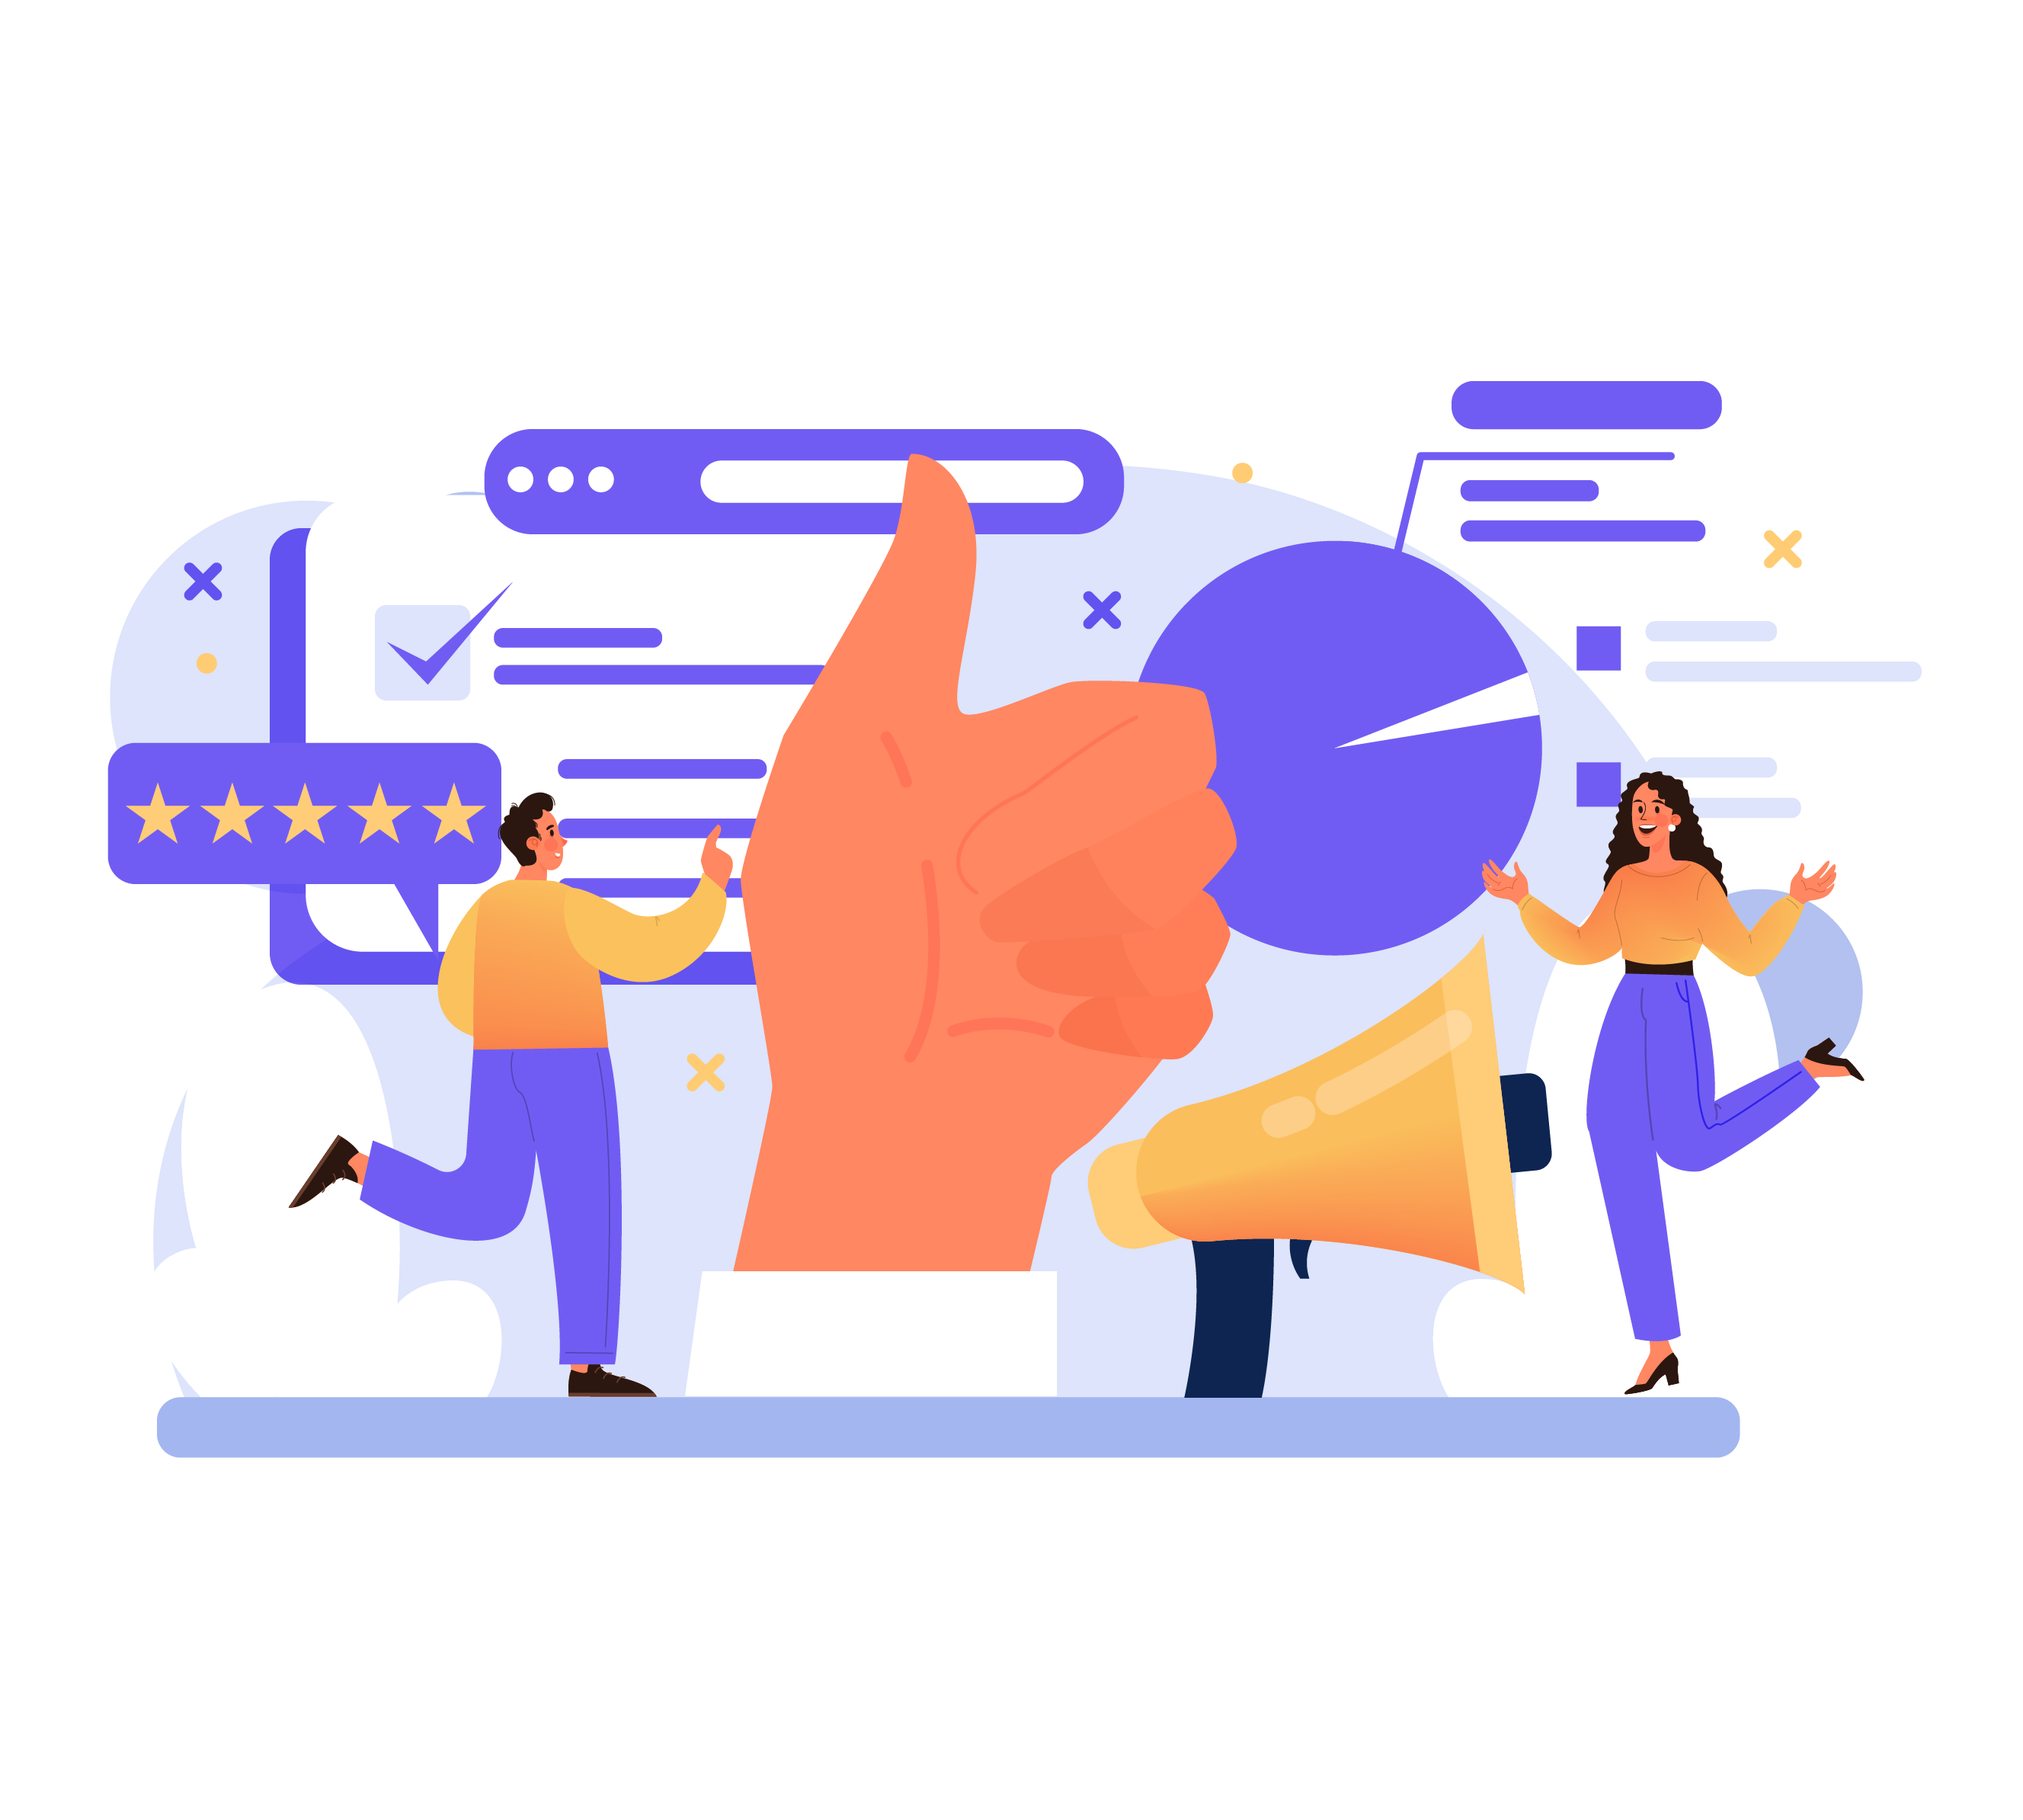
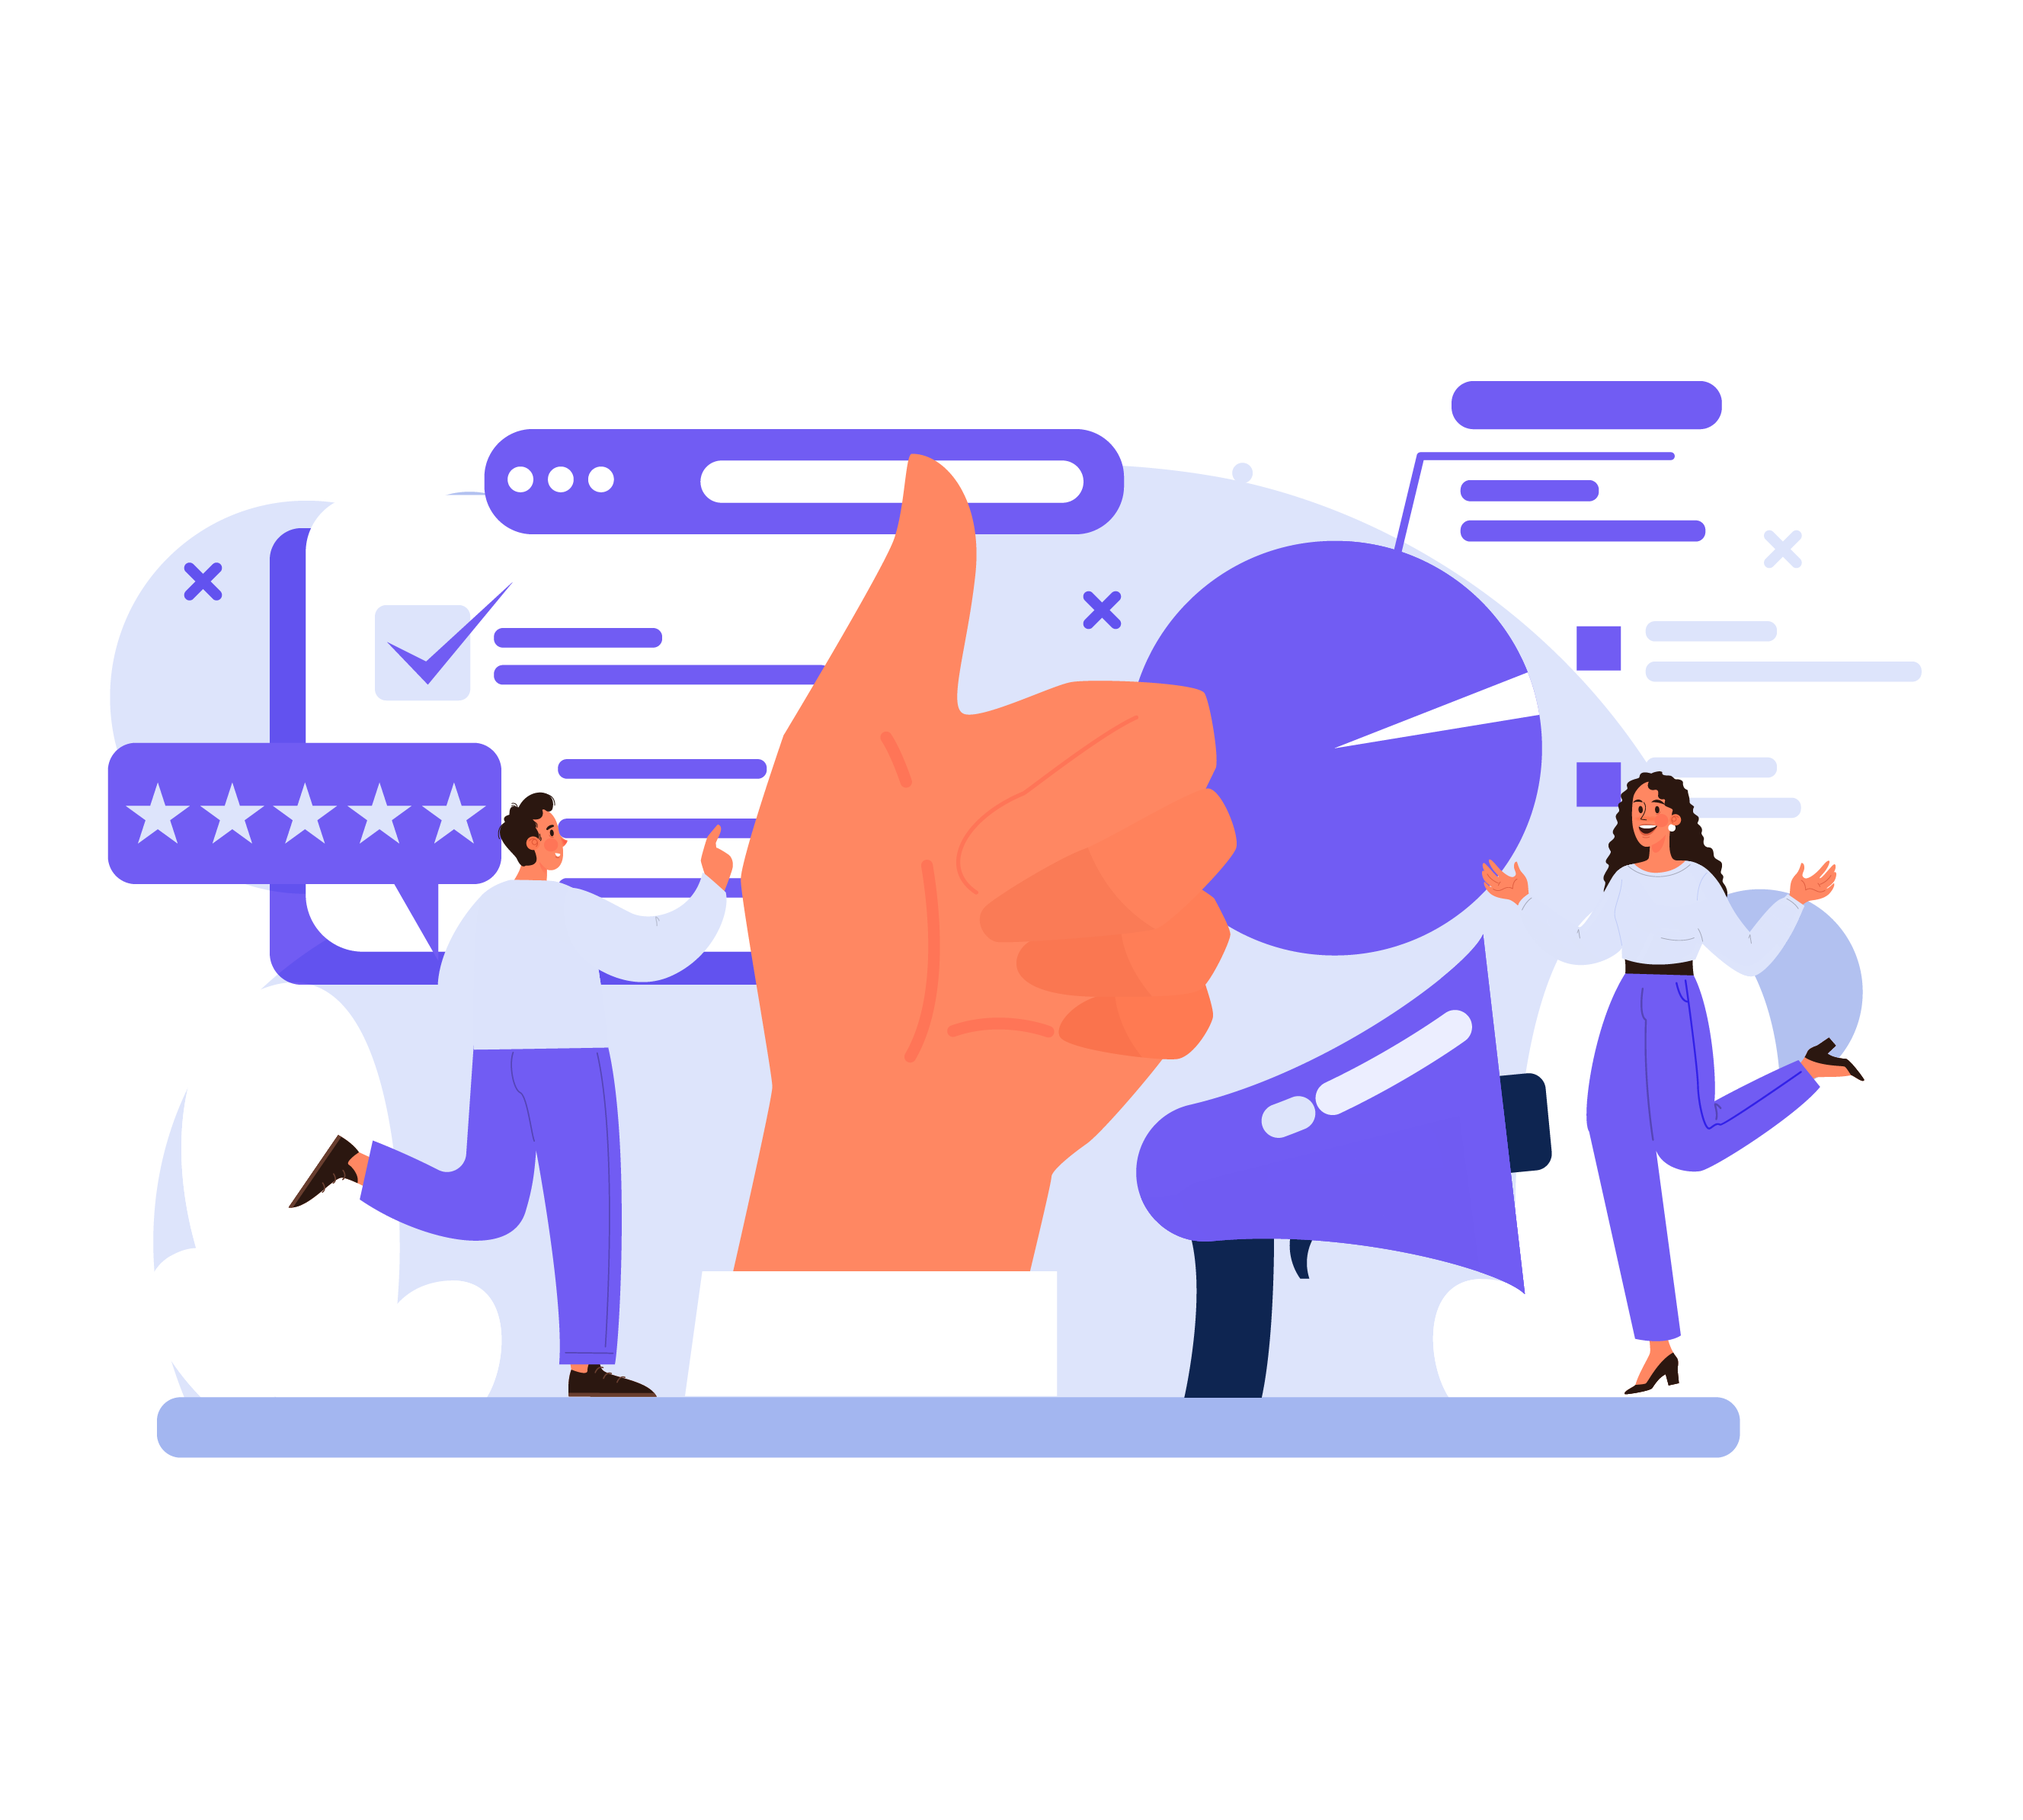
salesforce page images done

diff --git a/components/AboutUs/Stats.vue b/components/AboutUs/Stats.vue
@@ -7,7 +7,7 @@
             </div>
         </div>
         <div class="stats-map text-center">
-            <img src="../../assets/images/About-US/Our TeamOne.png" alt="cpq">
+            <img src="../../assets/images/About-US/Our Teamtwo.png" alt="cpq">
         </div>
     </div>
 </template>
